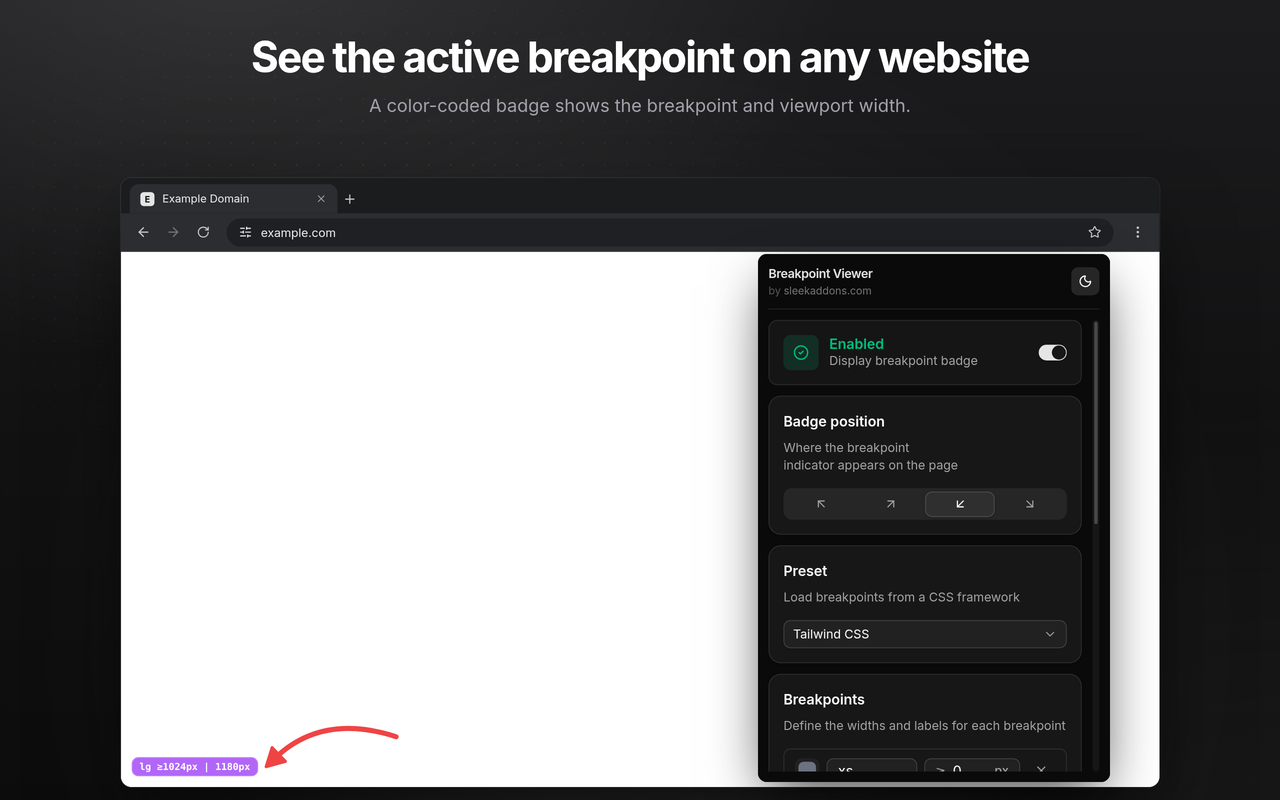
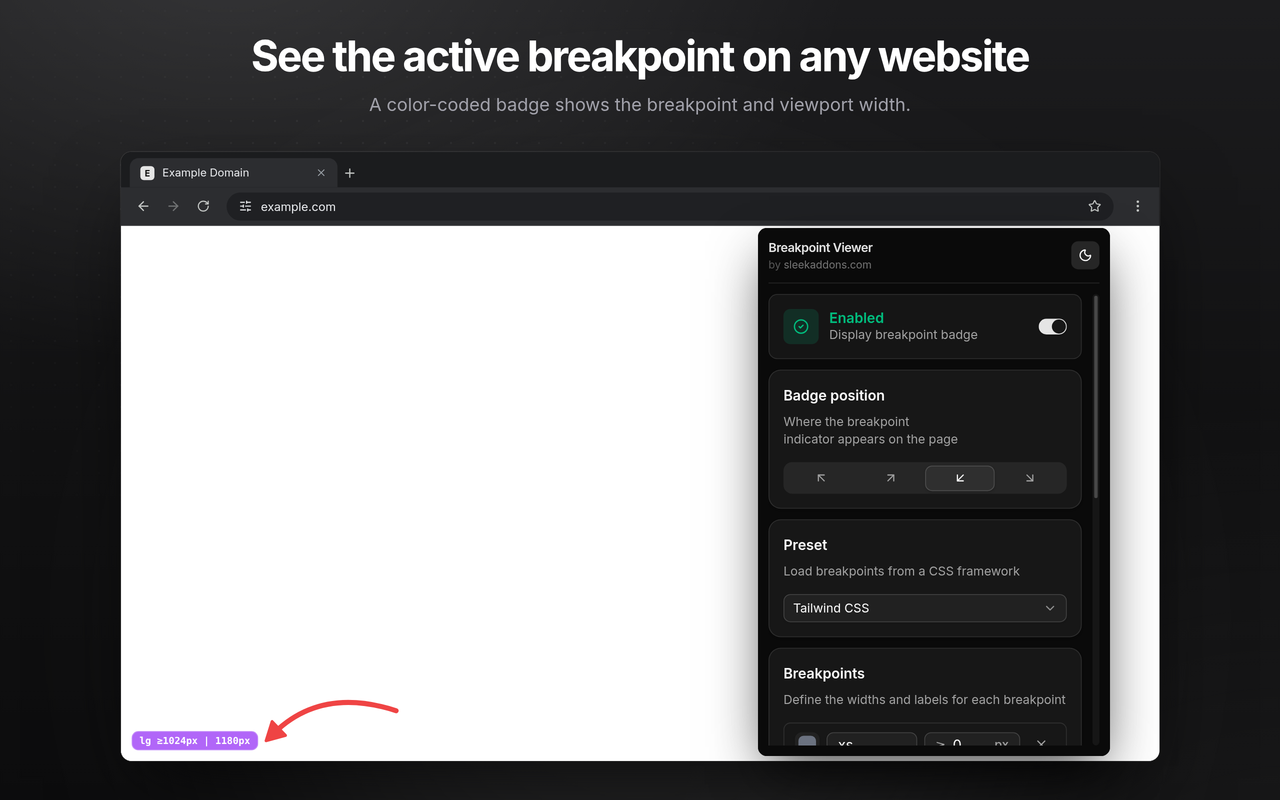
feat: update screenshots for breakpoint-viewer, llm-client, table-extractor, and website-blocker extensions; adjust layout in stage.css and stage.ts for improved alignment

diff --git a/scripts/screenshots/stage.ts b/scripts/screenshots/stage.ts
@@ -86,8 +86,11 @@ export interface Scene {
   stageScript?: string
 }
 
-const SPLIT_WINDOW = { width: 728, height: 700, top: 56, scale: 1 }
-const BAND_WINDOW = { width: 1180, height: 692, top: 178, scale: 0.88 }
+// Vertically centred on the 800px canvas.
+const SPLIT_WINDOW = { width: 728, height: 700, top: 50, scale: 1 }
+// Below the headline band (.copy.band in stage.css): the space above the
+// headline, between the subhead and the window, and below the window is even.
+const BAND_WINDOW = { width: 1180, height: 692, top: 152, scale: 0.88 }
 const TOOLBAR_HEIGHT = 84
 
 function icon(component: ComponentType<{ size?: number; strokeWidth?: number }>, size = 16, strokeWidth = 2) {
@@ -186,7 +189,7 @@ function renderPopup(scene: Scene): string {
         ? { left: 500, width: 740, top: 0, height: 800 }
         : scene.layout === 'split-right'
           ? { left: 40, width: 740, top: 0, height: 800 }
-          : { left: 0, width: 1280, top: 176, height: 600 }
+          : { left: 0, width: 1280, top: BAND_WINDOW.top, height: BAND_WINDOW.height * BAND_WINDOW.scale }
     scale = ui.scale ?? Math.min(1.12, (area.height - 64) / ui.height, (area.width - 64) / ui.width)
     left = ui.at?.left ?? area.left + (area.width - ui.width * scale) / 2
     top = ui.at?.top ?? area.top + (area.height - ui.height * scale) / 2

diff --git a/scripts/screenshots/scenes/website-blocker.ts b/scripts/screenshots/scenes/website-blocker.ts
@@ -121,8 +121,9 @@ export const websiteBlockerScenes: Scene[] = [
       title: 'Website Blocker',
     },
     page: '/blocked.html?domain=social.example.com&reason=schedule',
-    // Float the popup beside the reminder page instead of covering it.
-    ui: { ...POPUP, at: { left: 806, top: 262 } },
+    // Float the popup beside the reminder page instead of covering it, just
+    // under the toolbar like an open popup.
+    ui: { ...POPUP, at: { left: 806, top: 228 } },
     storage: STORAGE,
     ready: READY,
     actions: [{ click: 'role=tab[name="Schedule"]' }, { waitFor: 'text=Work hours' }],

diff --git a/scripts/screenshots/assets/stage.css b/scripts/screenshots/assets/stage.css
@@ -75,7 +75,7 @@ body {
 }
 
 .copy.band {
-  top: 34px;
+  top: 33px;
   left: 0;
   right: 0;
   align-items: center;
